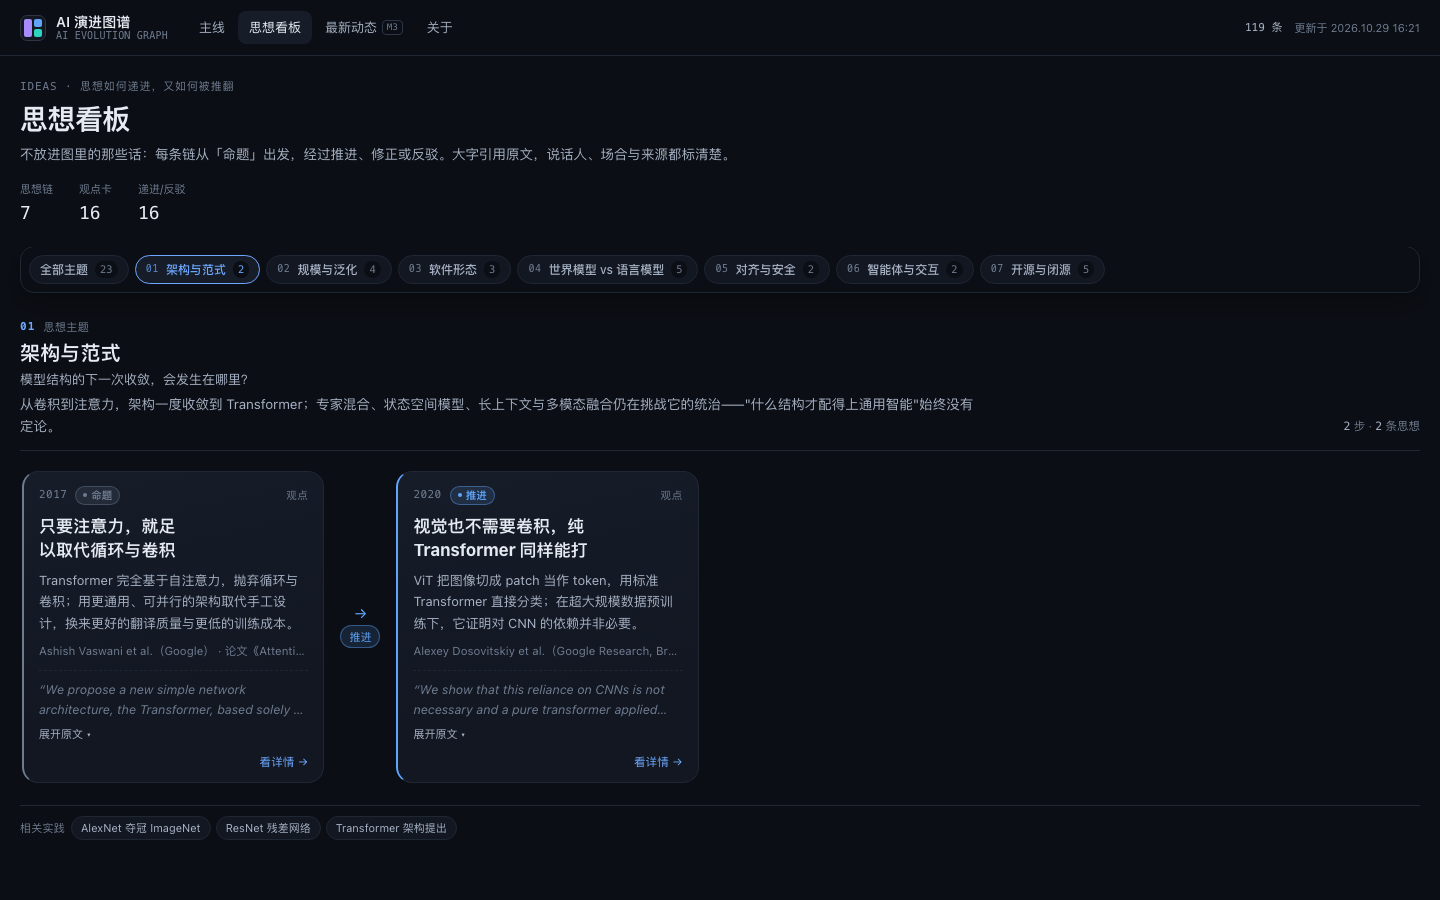
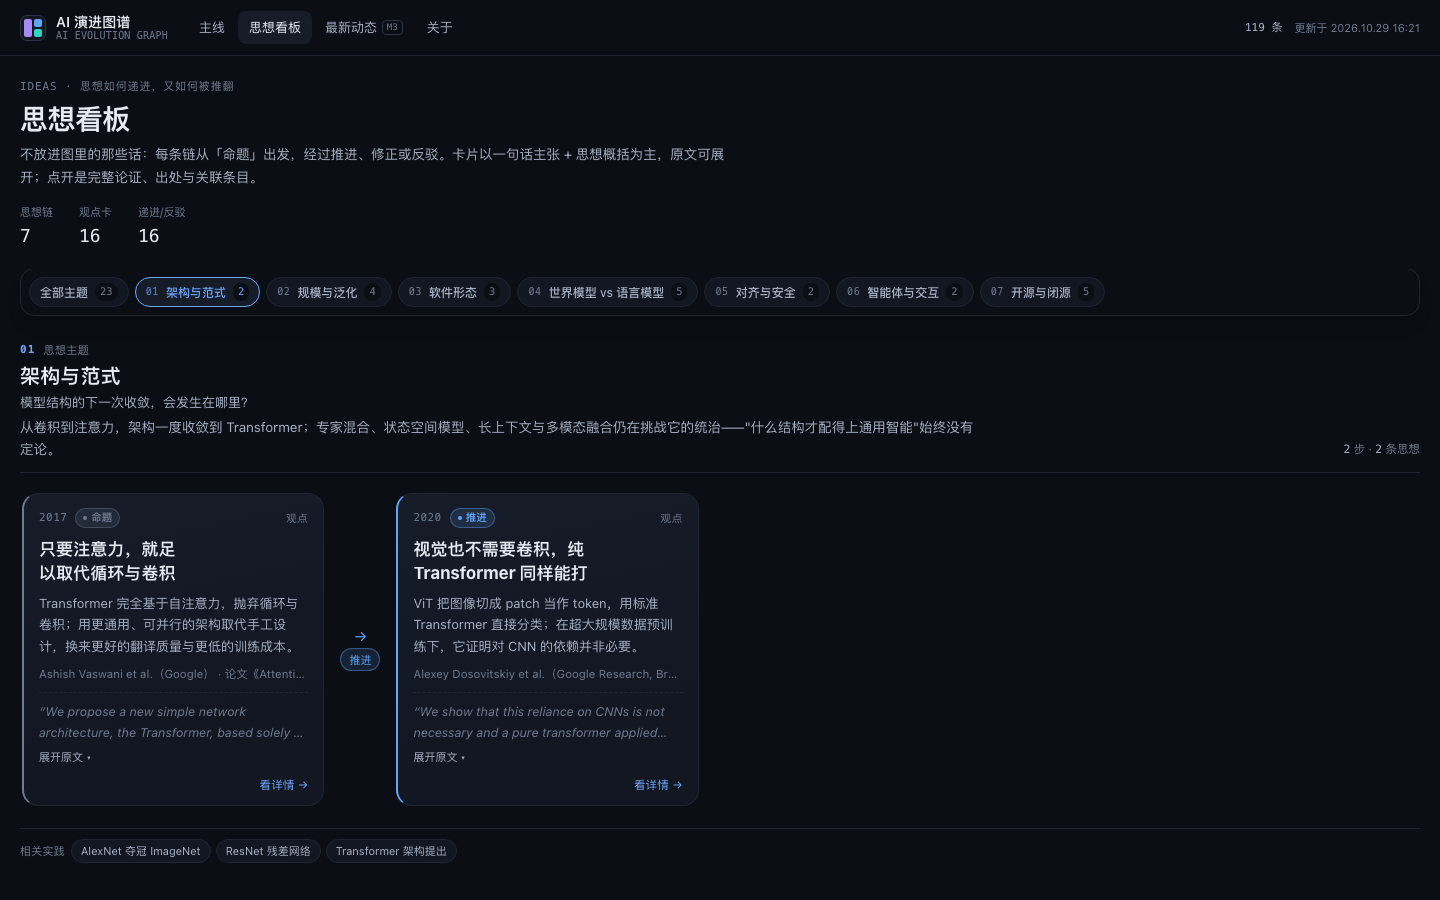
M2.6 fix: thought board scroll-track ref + copy/docs sync
- fix missing ref={trackRef}: horizontal-scroll measurement + '横向滚动查看全部 N 步' hint now works (3 overflowing themes at 1440)
- update thoughts hero copy to thought-first/quote-collapsed wording
- DECISIONS §11.3 updated to v2 design (7 themes, claim-first cards, expandable quote)
- QA 50/50 still green; tsc 0 error; vitest 32/32

diff --git a/src/pages/ThoughtBoardPage.tsx b/src/pages/ThoughtBoardPage.tsx
@@ -32,7 +32,7 @@ export function ThoughtBoardPage({ route }: { route: HashRoute }) {
         <p className="mainline-kicker">IDEAS · 思想如何递进，又如何被推翻</p>
         <h1>思想看板</h1>
         <p className="mainline-sub">
-          不放进图里的那些话：每条链从「命题」出发，经过推进、修正或反驳。大字引用原文，说话人、场合与来源都标清楚。
+          不放进图里的那些话：每条链从「命题」出发，经过推进、修正或反驳。卡片以一句话主张 + 思想概括为主，原文可展开；点开是完整论证、出处与关联条目。
         </p>
         <dl className="thoughts-stats">
           <div>

diff --git a/src/components/thoughts/ThoughtBoard.tsx b/src/components/thoughts/ThoughtBoard.tsx
@@ -214,7 +214,7 @@ function ThemeSection({ chain, index, selectedId, onSelect }: ThemeSectionProps)
         </p>
       </header>
 
-      <div className="tb-track">
+      <div className="tb-track" ref={trackRef}>
         {chain.steps.length === 0 && <p className="tb-theme-empty">暂无条目，待补充</p>}
         {chain.steps.map((step, stepIndex) => (
           <Fragment key={step.entry.id}>

diff --git a/docs/DECISIONS.md b/docs/DECISIONS.md
@@ -261,11 +261,12 @@ export interface MobileInfluenceListProps {
 - 体量不消失：每章底部显示"另有 N 条背景事件"+ 极简刻度（hover 可看标题，点击可看详情），不抢主线焦点。
 - 交互：点击卡片开详情抽屉；键盘 Enter/Space；`sm` 以下单列。
 
-### 11.3 思想看板设计
-- 数据：`type: insight` 条目的可选字段 `thought_chain`（链 id）与 `thought_role`（thesis/advance/revision/rebuttal）；链配置在 `src/lib/thoughtChains.ts`（已含 4 条链：规模与泛化 / 软件形态 / 世界模型 vs 语言模型 / 开源与闭源）。
-- 渲染：桌面 4 列看板（平板 2 列、移动端单列）；每列一条链 = 标题 + 关键问题 + 纵向步骤卡片；步骤之间用带箭头的「推进/修正/反驳」连接；insight 卡片大字显示 quote 原文 + speaker + occasion + 解读摘要；事件类步骤用紧凑事件卡。
-- 链底部「相关模型实践」chips 可点击跳详情；点击任意卡片开详情抽屉。
-- 后续（M3）：按主题/人物/立场筛选。
+### 11.3 思想看板设计（v2，2026-10-29 用户反馈后升级）
+- 数据：`type: insight` 的可选字段 `thought_chain`（7 个主题 id）、`thought_role`（thesis/advance/revision/rebuttal）、`thought_claim`（一句话主张）、`thought_summary`（2–3 句概括）；主题与步骤配置在 `src/lib/thoughtChains.ts`（架构与范式 / 规模与泛化 / 软件形态 / 世界模型 vs 语言模型 / 对齐与安全 / 智能体与交互 / 开源与闭源）。
+- 布局：顶部 sticky 主题筛选条（全部 + 7 主题，单选可回退）；7 个纵向主题分区，每区 = 编号 + 标题 + 关键问题 + 主题概括 + 步骤横向链（4–5 步时横向滚动并有显式提示，≤900px 纵向 ↓）；步骤按日期排序，箭头取 step.arrow，角色色区分。
+- 卡片（思想优先）：主标题 = `thought_claim`（17px/700）→ `thought_summary`（13px，3 行）→ speaker/occasion（单行）→ **原文降级为 2 行斜体、可「展开原文」**（展开 8 行，不误触卡片点击）→「看详情 →」；事件/实践步骤用紧凑卡（标题 + 摘要，无原文区）。
+- 点击卡片/相关实践 chips 打开完整详情抽屉（原文、正文解读、来源、关联条目）。
+- 后续（M3）：按人物/立场筛选、继续补名言。
 
 ### 11.3.1 交付状态（2026-10-29）
 
